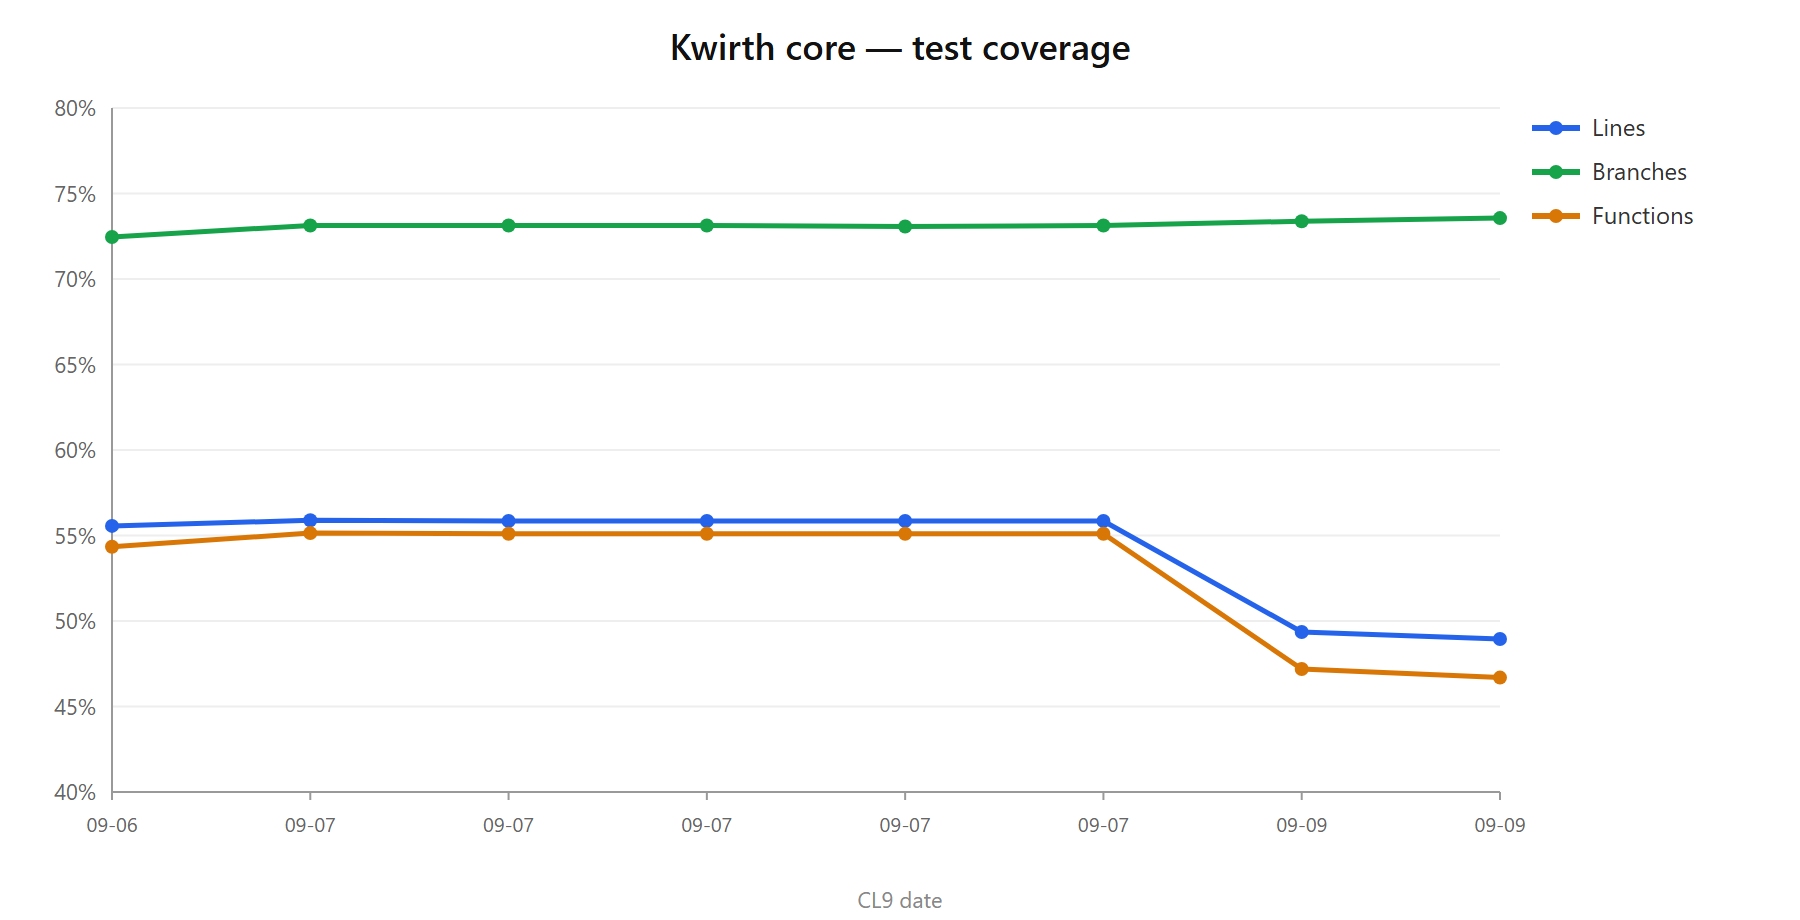
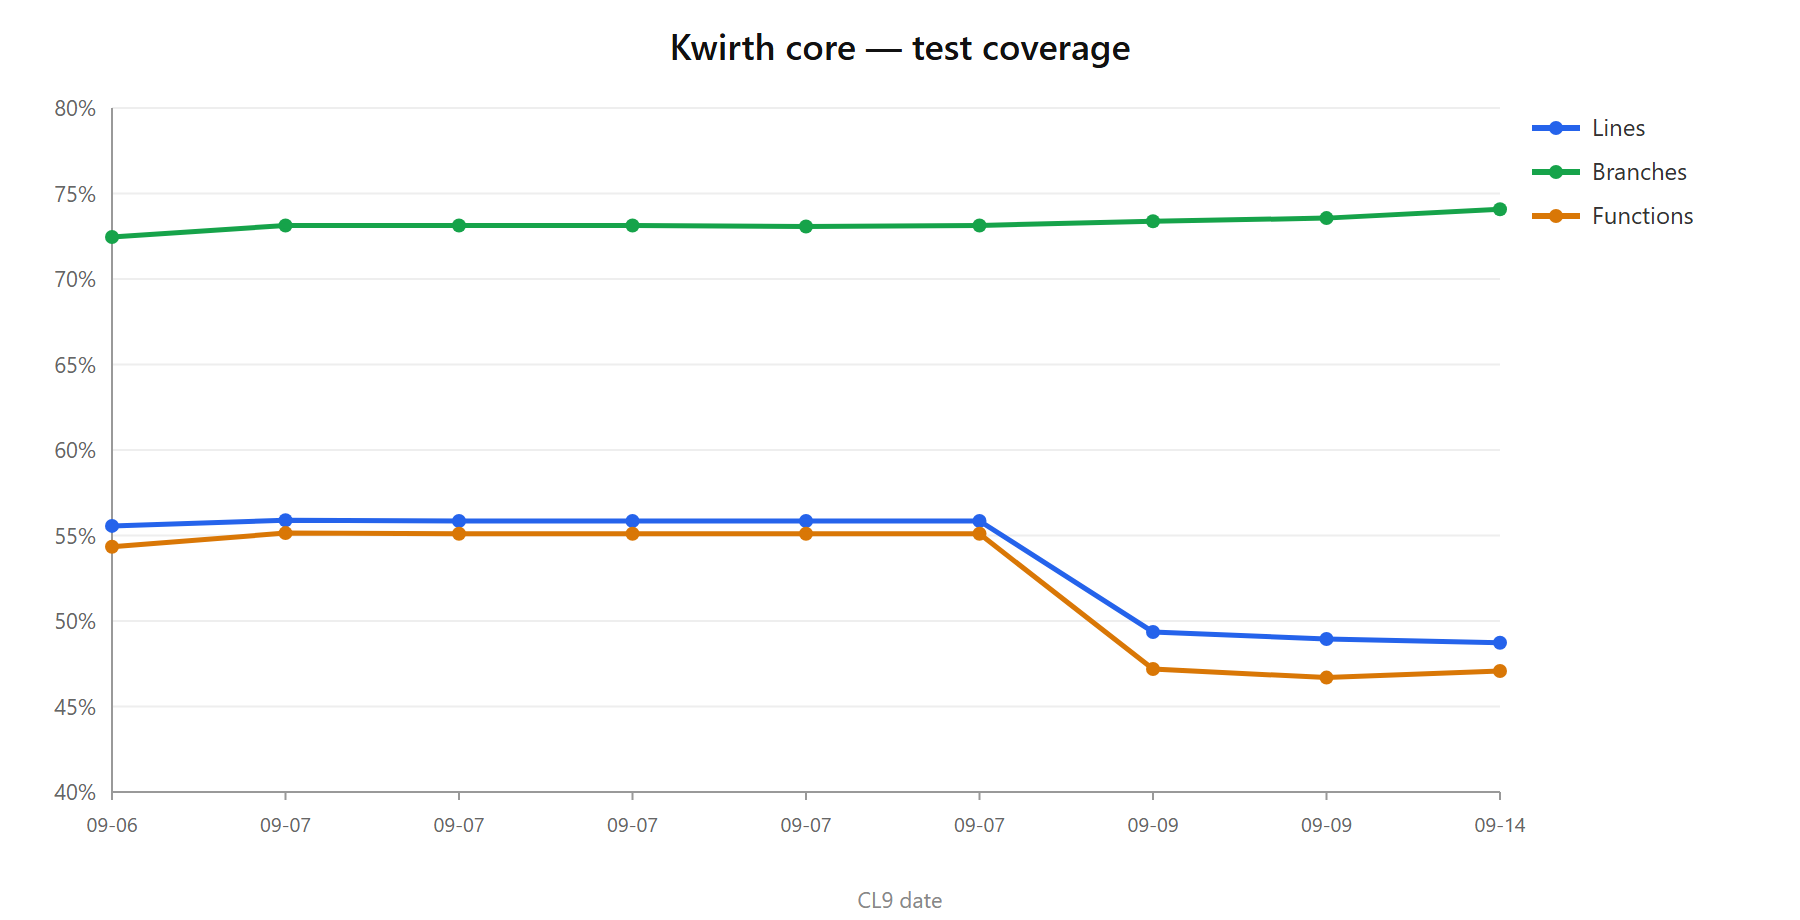
fix(core): las credenciales de descarga llegaban tarde al arranque
configurePackageRegistries() se llamaba al montar las rutas, en setUpRoutes().
Pero el arranque es createRunningInstance() -> prepareRunningInstance() ->
startRunningInstance() -> setUpRoutes(), y quien rehidrata las extensiones
instaladas es prepareRunningInstance(). O sea que esas descargas salian por el
`if (!deps) return {}` de packageHeaders(): ANONIMAS. Contra un registro
privado, 401 en cada arranque -mientras instalar lo mismo desde la UI
funcionaba, porque eso pasa despues-, y esa contradiccion es justo lo que
despistaba. Salio en security-pro con las docs de service-flow del Nexus.

La llamada se mueve a createRunningInstance(), donde se resuelven configMaps y
secrets: un solo sitio, antes de todo, y cubre k8s, docker y desktop.

No era solo docs: plugins, providers, senders, webhooks, themes y homepages
tienen el camino de fetch-from-source-on-startup para lo que no cupo en el
ConfigMap, y tambien salia anonimo. Docs era el caso visible porque no vive en
el store sino desempaquetada en disco, y en un pod nuevo ese disco esta vacio.

Dos casos de harness fijan las dos caras del contrato. Sin e2e a proposito: es
cableado del arranque del back y el e2e observa la SPA ya levantada.

De paso, tres asertos de e2e obsoletos (no rotos por este cambio): anonymous y
jira salen ahora DOS veces en su manager -instalado y disponible en el
marketplace- y rompian strict mode; y dos timeouts cortos flakeaban con la
maquina cargada.

diff --git a/front/e2e/tests/login-extensions.spec.ts b/front/e2e/tests/login-extensions.spec.ts
@@ -18,6 +18,11 @@ test('login extensions: menu item opens LoginDialog', async ({ page }) => {
     await page.goto('about:blank')
 })
 
+// Cargar la pagina de una extension de login no es instantaneo: el core sirve su front y su fondo, y el
+// navegador los pinta. 5s bastaban en una maquina ociosa y flakeaban en una cargada — y un rojo que
+// depende de lo ocupado que este el equipo no es senal de nada, solo tapa los de verdad.
+const LOGIN_EXT_TIMEOUT = 20_000
+
 // ── 2. LoginExtensionPage renderiza con ?loginExt= ────────────────────────────
 test('login extensions: ?loginExt=magnify renders custom login page', async ({ page }) => {
     await page.goto('/?loginExt=magnify')
@@ -26,7 +31,7 @@ test('login extensions: ?loginExt=magnify renders custom login page', async ({ p
     await expect(page.getByRole('dialog')).not.toBeVisible({ timeout: 3000 }).catch(() => {})
 
     // Tiene los campos de usuario y contraseña
-    await expect(page.getByLabel(/user/i)).toBeVisible({ timeout: 5000 })
+    await expect(page.getByLabel(/user/i)).toBeVisible({ timeout: LOGIN_EXT_TIMEOUT })
     await expect(page.getByLabel(/password/i).first()).toBeVisible()
 
     await page.goto('about:blank')
@@ -36,7 +41,7 @@ test('login extensions: ?loginExt=magnify renders custom login page', async ({ p
 test('login extensions: extension page has Login and Change password buttons', async ({ page }) => {
     await page.goto('/?loginExt=magnify')
 
-    await expect(page.getByLabel(/user/i)).toBeVisible({ timeout: 5000 })
+    await expect(page.getByLabel(/user/i)).toBeVisible({ timeout: LOGIN_EXT_TIMEOUT })
 
     const loginBtn = page.getByRole('button', { name: /^login$/i })
     const changePwdBtn = page.getByRole('button', { name: /change password/i })
@@ -62,7 +67,7 @@ test('login extensions: extension page has Login and Change password buttons', a
 test('login extensions: wrong credentials show error', async ({ page }) => {
     await page.goto('/?loginExt=magnify')
 
-    await expect(page.getByLabel(/user/i)).toBeVisible({ timeout: 5000 })
+    await expect(page.getByLabel(/user/i)).toBeVisible({ timeout: LOGIN_EXT_TIMEOUT })
     await page.getByLabel(/user/i).fill('admin')
     await page.getByLabel(/password/i).first().fill('wrongpassword')
     await page.getByRole('button', { name: /^login$/i }).click()
@@ -81,8 +86,11 @@ test('login extensions: anonymous login shows config button', async ({ page }) =
     const dialog = page.getByRole('dialog')
     await expect(dialog).toBeVisible()
 
-    // La extensión anonymous debe aparecer en la lista
-    await expect(dialog.getByText('Anonymous', { exact: true })).toBeVisible({ timeout: 5000 })
+    // La extensión anonymous debe aparecer en la lista.
+    // .first(): el diálogo lista DOS veces lo que está instalado y ademas publicado — una en 'Installed
+    // logins' y otra en 'Available logins'. Sin acotar, Playwright lo rechaza por strict mode. Aquí solo
+    // se comprueba que la extensión figura, y con la primera basta.
+    await expect(dialog.getByText('Anonymous', { exact: true }).first()).toBeVisible({ timeout: 5000 })
 
     // Debe haber al menos un botón de configuración (⚙)
     const settingsBtn = dialog.getByRole('button', { name: 'Configure' }).first()

diff --git a/back/tests/tools/packageRegistries.test.ts b/back/tests/tools/packageRegistries.test.ts
@@ -1,6 +1,8 @@
 import { test } from 'node:test'
 import assert from 'node:assert/strict'
-import { matchRegistry, basicHeader, bearerHeader, authHeader } from '../../src/tools/PackageRegistries'
+import { matchRegistry, basicHeader, bearerHeader, authHeader, packageHeaders, configurePackageRegistries } from '../../src/tools/PackageRegistries'
+import { IConfigMaps } from '../../src/tools/IConfigMap'
+import { ISecrets } from '../../src/tools/ISecrets'
 import { IPackageRegistry, EPackageRegistryAuthType } from '@kwirthmagnify/kwirth-common'
 
 // De donde se baja un paquete NO es el marketplace: el manifest solo lo lista, y su url puede apuntar a
@@ -99,4 +101,30 @@ test('en Bearer el username no pinta nada', () => {
 test('sin secreto guardado la cabecera no se inventa nada', () => {
     assert.equal(authHeader({ type: EPackageRegistryAuthType.BEARER }, undefined).Authorization, 'Bearer ')
     assert.equal(authHeader(undefined, 'tok').Authorization, undefined)
+})
+
+// ⚠ packageHeaders() sale por `if (!deps) return {}` mientras nadie haya llamado a
+// configurePackageRegistries(). No es un detalle: una descarga hecha antes de ese momento va ANONIMA, y
+// contra un registro privado eso es un 401 — pero solo al arrancar, porque instalar lo mismo desde la UI
+// ocurre despues y si lleva credenciales. Paso de verdad: el core rehidrataba las extensiones instaladas
+// en prepareRunningInstance() y configuraba esto mas tarde, en setUpRoutes(), y las docs de service-flow
+// del Nexus fallaban con 401 en cada arranque.
+//
+// Estos dos tests fijan el contrato de las dos caras. El orden importa y por eso el 'sin configurar' va
+// primero: `deps` es estado de modulo y no hay forma de desconfigurarlo.
+
+test('sin configurar, packageHeaders NO manda credenciales (y la descarga saldria anonima)', async () => {
+    assert.deepEqual(await packageHeaders(TGZ), {})
+})
+
+test('configurado, packageHeaders inyecta la credencial del registro que sirve esa URL', async () => {
+    const registry = reg('nexus', NEXUS, true, { type: EPackageRegistryAuthType.BASIC, username: 'iriaoperae' })
+    const configMaps = { read: async () => ({ packageRegistries: [registry] }) } as unknown as IConfigMaps
+    const secrets = { readAllKeys: async () => ({ nexus: 'fake-stored-password' }) } as unknown as ISecrets
+
+    configurePackageRegistries(configMaps, secrets)
+
+    assert.deepEqual(await packageHeaders(TGZ), basicHeader('iriaoperae', 'fake-stored-password'))
+    // una URL que no sirve ese registro sigue bajando anonima aunque ya este todo configurado
+    assert.deepEqual(await packageHeaders('https://registry.npmjs.org/x/-/x-1.0.0.tgz'), {})
 })

diff --git a/back/src/index.ts b/back/src/index.ts
@@ -389,6 +389,14 @@ const createRunningInstance = async (context:string|undefined, kwirthData:Kwirth
             }
         }
 
+        // Las credenciales de descarga se registran AQUI, en cuanto hay almacenamiento, y no al montar las
+        // rutas. El arranque es prepareRunningInstance() -> startRunningInstance() -> setUpRoutes(), y es
+        // prepareRunningInstance quien rehidrata las extensiones instaladas: si esto se configura en
+        // setUpRoutes, packageHeaders() sale por su `if (!deps) return {}` y esas descargas van ANONIMAS.
+        // Contra un registro privado eso es un 401 al arrancar, mientras instalar lo mismo desde la UI —ya
+        // con las rutas montadas— funciona. Paso de verdad con las docs de service-flow en el Nexus.
+        configurePackageRegistries(configMaps, secrets)
+
         let runningInstance:IRunningInstance = {
             id: uuid(),
             kwirthData: kwirthData,
@@ -1297,9 +1305,8 @@ const setUpRoutes = async (ri:IRunningInstance, expressApp:Application) : Promis
         // Resolucion de marketplaces: el back descarga los manifests (publico + los configurados),
         // filtra por tipo y aplica la precedencia, para que la regla exista en un solo sitio.
         let marketplaceManager = new MarketplaceManager(ri.configMaps, ri.secrets)
-        // Los nueve managers que instalan extensiones solo reciben configMaps, asi que las credenciales
-        // de descarga se resuelven aqui una vez en vez de enhebrarlas por nueve constructores.
-        configurePackageRegistries(ri.configMaps, ri.secrets)
+        // configurePackageRegistries() ya se llamo en createRunningInstance(): tiene que estar puesto antes
+        // de que prepareRunningInstance() rehidrate nada, y esto corre despues.
         let marketplaceApi = new MarketplaceApi(marketplaceManager, apiKeyApi)
         riRouter.use(`/core/marketplace`, marketplaceApi.router)
         // Catálogo global de scopes RBAC (built-in del core + los que declaran los canales): lo consume el

diff --git a/front/e2e/tests/extension-catalogs.spec.ts b/front/e2e/tests/extension-catalogs.spec.ts
@@ -27,8 +27,10 @@ test('los manager dialogs siguen listando catalogo tras pasar por el back', asyn
         const dialog = page.getByRole('dialog').filter({ hasText: c.dialog })
         await dialog.waitFor({ timeout: 10000 })
 
-        // el catalogo tarda: se espera a que aparezca alguna tarjeta con version
-        const hasEntries = await dialog.getByText(/^v\d+\.\d+\.\d+$/).first().isVisible({ timeout: 15000 }).catch(() => false)
+        // El catalogo tarda: el dialogo no solo pinta lo instalado, tambien resuelve los manifests
+        // remotos (publico + privados) antes de tener tarjetas que enseñar. 15s bastaban con la maquina
+        // ociosa y flakeaban con ella cargada, y un rojo que depende de eso no es señal de nada.
+        const hasEntries = await dialog.getByText(/^v\d+\.\d+\.\d+$/).first().isVisible({ timeout: 40000 }).catch(() => false)
         if (!hasEntries) failures.push(`${c.menu}: no catalog entries`)
 
         const failedText = await dialog.getByText(/Failed to fetch/i).count()

diff --git a/front/e2e/tests/webhooks.spec.ts b/front/e2e/tests/webhooks.spec.ts
@@ -13,7 +13,9 @@ test('Manage webhooks: lists the jira webhook and a config mints a routable URL'
 
     // El diálogo "Manage webhooks" está abierto y el dev webhook jira aparece instalado.
     await expect(page.getByText('Manage webhooks')).toBeVisible()
-    await expect(page.getByText('Jira Webhook')).toBeVisible()
+    // .first(): jira figura DOS veces desde que ademas de instalado esta publicado en el marketplace
+    // privado — una en 'Installed webhooks' y otra en 'Available webhooks'. Sin acotar, strict mode.
+    await expect(page.getByText('Jira Webhook').first()).toBeVisible()
 
     // Abrir la config del webhook jira (botón Configure ⚙ de su card).
     await page.getByRole('button', { name: 'Configure' }).first().click()

diff --git a/docs/qa/test-metrics-history.md b/docs/qa/test-metrics-history.md
@@ -34,6 +34,7 @@
 
 | Fecha | Cierre | Harness | Cobertura (líneas / ramas / funcs) | e2e | Notas |
 |---|---|---|---|---|---|
+| 2026-09-14 | Las credenciales de descarga llegaban tarde al arranque | **246** ✅ | 48.73 % / 74.08 % / 47.08 % | 15 specs · 53 casos · **51 ✅, 1 saltado** | `configurePackageRegistries()` se llamaba en `setUpRoutes()`, pero quien rehidrata las extensiones instaladas es `prepareRunningInstance()`, que corre **antes**. Resultado: toda descarga del arranque salía por el `if (!deps) return {}` de `packageHeaders()`, o sea **anónima**, y contra un registro privado eso es un **401 en cada arranque** — mientras instalar lo mismo desde la UI funcionaba, porque eso pasa después. Detectado en security-pro con las docs de service-flow del Nexus. La llamada se mueve a `createRunningInstance()`, donde se resuelven `configMaps` y `secrets`: un solo sitio, antes de todo, y cubre k8s, docker y desktop. **No era solo docs**: plugins, providers, senders, webhooks, themes y homepages tienen el camino de *fetch from source on startup* para lo que no cupo en el ConfigMap, y también salía anónimo. 2 casos nuevos de harness fijan las dos caras del contrato. ⚠ **Sin e2e**: es cableado del arranque del back y el e2e observa la SPA ya levantada. Tres asertos de e2e corregidos por obsoletos, no por el cambio: `anonymous` y `jira` ahora salen **dos veces** en su manager (instalado *y* disponible en el marketplace) y rompían strict mode; y dos timeouts cortos (5 s en la página de login de extensión, 15 s en el catálogo) flakeaban con la máquina cargada. |
 | 2026-09-09 | Helper `docsUrl` compartido · el login a medias avisa | **232** ✅ | 48.95 % / 73.56 % / 46.69 % | 13 specs · 39 casos · **38 ✅, 1 saltado** | `common-front@0.5.53`. **Muere `DEFAULT_DOCS_URL = 'http://localhost:4000'`** de `HelpButton`: era lo que hacía que una URL de guía mal puesta no hiciera ruido — agora estuvo meses en 404 por un `/core` de menos. Sin base ya **no se pinta el botón**, y al quitarlo salieron **dos diálogos del core** que nunca la pasaban (*Manage login extensions*, *Manage extension packs*) y llevaban desde siempre a ese localhost. `docsUrl(clusterUrl, tipo, id)` en common-front elimina **59 repeticiones** de la misma cadena: excubitor 21, iter 10, core 28. Un **login instalado a medias ahora lo dice**: si `background.png` no cabe en el ConfigMap (~1 MiB duro de k8s) la página muestra un aviso pequeño en rojo que **nombra el login**, sin explicar el motivo — se sirve sin autenticar. 5 casos nuevos fijan la frontera, medida sobre el **base64** y no sobre el PNG. El e2e de `provider-http-pull-push` pasa a **saltarse** si el provider no está cargado: está publicado y en el manifest público, pero un rojo que depende de si alguien lo instaló no es señal. ⚠ Publicar common-front dejó el front sin compilar hasta **reiniciar el dev**: borrar `node_modules/.cache` no bastó, y `tsc` pasaba porque lee los tipos nuevos mientras webpack seguía con su resolución vieja. |
 | 2026-09-09 | Registros de paquetes · procedencia guardada al instalar | **227** ✅ | 49.36 % / 73.38 % / 47.19 % | 13 specs · 39 casos · **38 ✅, 1 ajeno** | `common@0.5.47` y `@0.5.48`. **De dónde se bajan los paquetes deja de colgar del marketplace**: lista propia `packageRegistries`, credencial elegida casando la URL del tarball por prefijo (gana el más largo), Basic **y Bearer** — verificado contra el Nexus real, donde el mismo user token da 200 como Bearer y 401 como Basic. `IMarketplace.auth` eliminado. Un solo `downloadFile` compartido sustituye a **nueve copias** idénticas, ninguna de las cuales mandaba credenciales, y las cabeceras no cruzan a otro host en un redirect. **La procedencia se GUARDA al instalar** (`marketplaceId`/`marketplaceLabel`) en vez de deducirse de la URL: con precedencia por id, dos marketplaces pueden servir el mismo id y había que saber cuál se instaló. `DocsDialog` → `DocsManagerDialog`: el nombre fuera de patrón lo había dejado fuera de **tres** tandas anteriores (Select de versión, procedencia, chips). Nuevos: `packageRegistries` (15 casos) y e2e `package-registries`. Dos aserciones caducadas corregidas, no flaky: `marketplace-secrets` probaba el secreto de paquete que ya no vive ahí, y `help-popup` exigía la página general de senders desde que cada uno enlaza la suya. El rojo restante es `provider-http-pull-push`: el provider no está en `kwirth-dev.json`. |
 | 2026-09-07 | Ayuda en los diálogos de configuración · clone de configs de webhook | **198** ✅ | 55.85 % / 73.13 % / 55.10 % | 12 specs · 21 casos · **18 ✅, 1 ajeno, 2 flaky** | `common-front@0.5.52`: `DialogTitleHelp` daba **nombre accesible vacío** al diálogo — MUI reconoce el título por identidad y solo como hijo directo, así que envuelto dejaba el `aria-labelledby` colgando. Afectaba a todos los que ya lo usaban, no solo a los nuevos. El rojo restante es `provider-http-pull-push`: el provider no está en `kwirth-dev.json`, su endpoint da 404. ⚠ Flaky: `login-extensions: wrong credentials` y `help-popup` del sender — pasan al reintento, y un rojo que depende del reintento enmascara los de verdad. |

diff --git a/plans/private-marketplace/PLAN.md b/plans/private-marketplace/PLAN.md
@@ -1,5 +1,47 @@
 # Private Marketplace Manifests — Plan
 
+## Cierre del 2026-09-14 — las credenciales de descarga llegaban tarde al arranque
+
+Síntoma: en security-pro, cada arranque del core dejaba un `401` rehidratando las docs de service-flow
+desde el Nexus, mientras instalar cualquier cosa desde la UI funcionaba. Y no era la credencial: el
+registro estaba bien configurado, con su URL casando por prefijo y su secreto guardado bajo el id
+correcto.
+
+**La causa era de orden.** El arranque es `createRunningInstance()` → `prepareRunningInstance()` →
+`startRunningInstance()` → `setUpRoutes()`, y `configurePackageRegistries()` se llamaba en el último paso.
+Pero es `prepareRunningInstance()` quien rehidrata lo instalado, así que esas descargas salían por el
+`if (!deps) return {}` de `packageHeaders()` — **anónimas**. Contra un registro privado, 401. Instalar
+desde la UI ocurre después y por eso sí llevaba credenciales: de ahí la contradicción que despistaba.
+
+- La llamada se mueve a `createRunningInstance()`, justo donde se resuelven `configMaps` y `secrets`. Un
+  solo sitio, antes que todo, y cubre los tres modos (k8s, docker, desktop) y los tres puntos de llamada.
+- **No era solo docs.** Plugins, providers, senders, webhooks, themes y homepages tienen todos el camino
+  de *fetch from source on startup* para cuando el artefacto no cupo en el ConfigMap; también salía
+  anónimo. Docs era el caso visible porque no se guarda en el store: se desempaqueta a un directorio
+  local y `loadAll()` la vuelve a bajar cuando ese directorio no está (`if (fs.existsSync(destDir))
+  continue`). En Kubernetes eso es **cada arranque**, porque el pod nace con el filesystem vacío — de ahí
+  que en security-pro saliera el 401 siempre y en el dev local no se notara, con el `%TEMP%` ya poblado.
+- Harness: dos casos en `tests/tools/packageRegistries.test.ts` fijan las dos caras —sin configurar no
+  manda credenciales, configurado inyecta la del registro que sirve esa URL y solo esa—. El orden dentro
+  del fichero importa: `deps` es estado de módulo y no hay forma de desconfigurarlo.
+- Guía de admin: la credencial hace falta **en cada arranque**, no solo al instalar. Rotar la contraseña
+  del registro no rompe la siguiente instalación, rompe el siguiente reinicio.
+- ⚠ **No hay e2e de esto.** Es cableado del arranque del back: el e2e va contra la SPA ya levantada y no
+  puede observar el orden en que el core se configuró. Cubierto por harness, y por QA manual borrando
+  `%TEMP%/kwirth-docs/provider/service-flow` y reiniciando el core (validado por el usuario 2026-09-14).
+
+### Salido de paso, pendiente
+
+- **`tools/icons-dist-check.mjs` da falsos positivos.** Busca `.NombreConMayuscula` en el bundle, así que
+  marca cualquier identificador de una librería bundleada que coincida con un nombre de icono de MUI:
+  `Camera` en topology es `THREE.PerspectiveCamera`, y los once de situs (`Map`, `Circle`, `Polyline`,
+  `Layers`…) son de Leaflet. Con esos falsos positivos la herramienta grita cuando no debe, que es casi
+  peor que no tenerla. Arreglo: contrastar solo contra la lista de iconos **podados**, no contra todo
+  nombre de MUI ausente del barrel.
+- **montag instalado (0.2.33) pide iconos podados** (`DeleteOutline`, `UploadFile`) y no se puede
+  actualizar: su **plugin** sigue sin publicar en el Nexus (`NEXUS-BASE-PENDING`). Solo migramos sus docs.
+  Entra en la migración pendiente de excubitor/montag/iter (plugin + login) y santander.
+
 ## Cierre del 2026-09-09 — el registro de paquetes se separa del marketplace
 
 **Un marketplace solo dice QUÉ existe; no aloja los paquetes.** La `url` de cada entrada puede apuntar a

diff --git a/docs/0.5.287/guide/admin/02-initial-config.md b/docs/0.5.287/guide/admin/02-initial-config.md
@@ -198,6 +198,8 @@ The secret is stored encrypted by kwirth, outside the settings, exactly like the
 
 > **Credentials never follow a redirect to another host.** Registries commonly answer a download with a redirect to object storage bearing a pre-signed URL; forwarding the `Authorization` header there would hand your credential to a third party, and those endpoints usually reject the double authentication anyway.
 
+> **The credential has to keep working after the install.** kwirth keeps installed extensions in its own storage, but not everything ends up there: an artefact too large for it is fetched from its registry again when needed, and a documentation extension is unpacked to a local directory rather than stored, so it is downloaded again whenever that directory is not there. In Kubernetes that is **every restart**, because a new pod starts with an empty filesystem. So a registry password that is rotated, revoked or left to expire does not fail on the next install: it fails on the next **restart**, and the affected extension comes up missing. The kwirth log names it, with the URL and the HTTP status.
+
 ## What to configure next
 
 With the admin account secured and the master key set, continue with:
